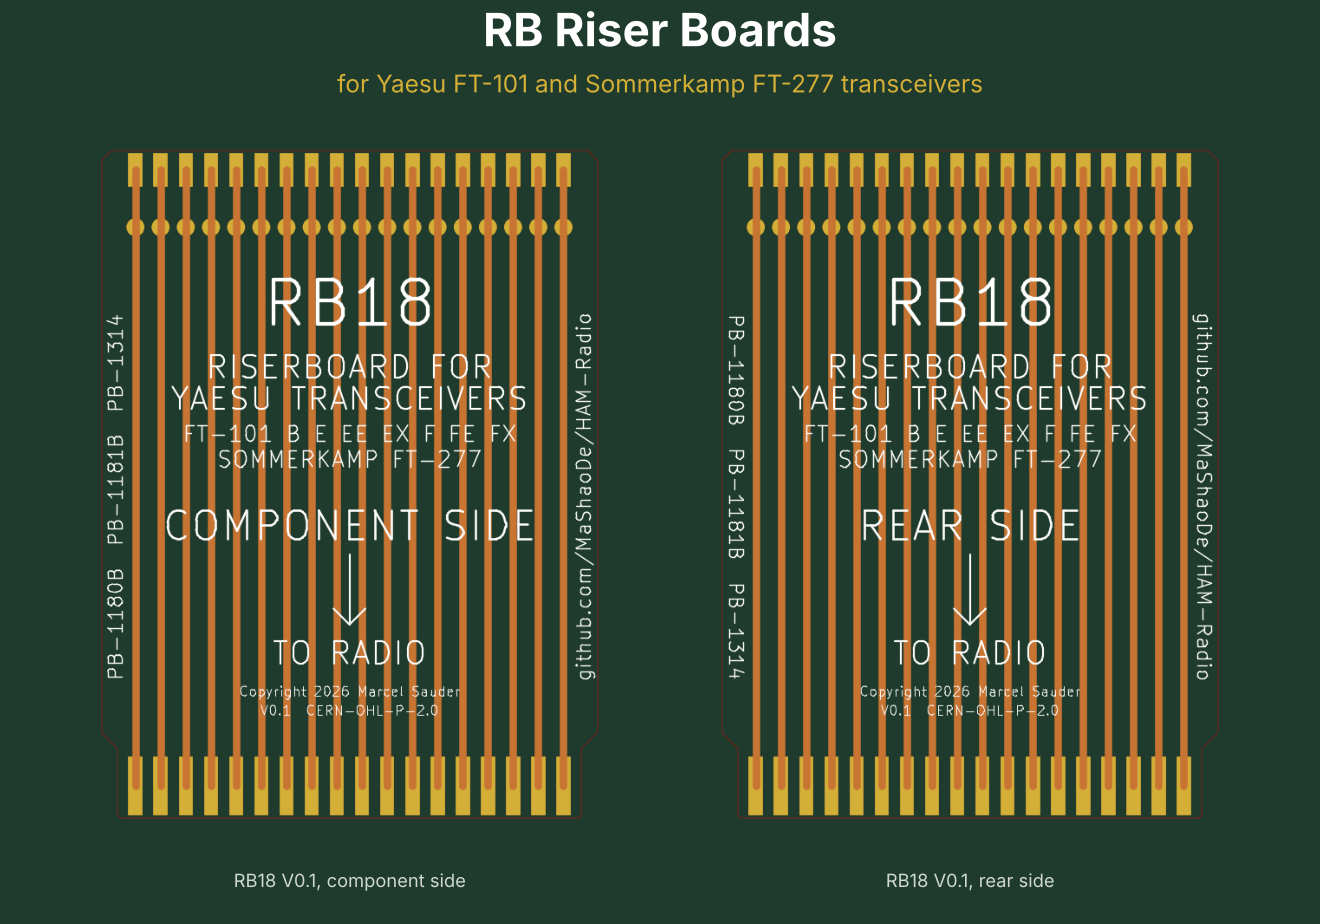
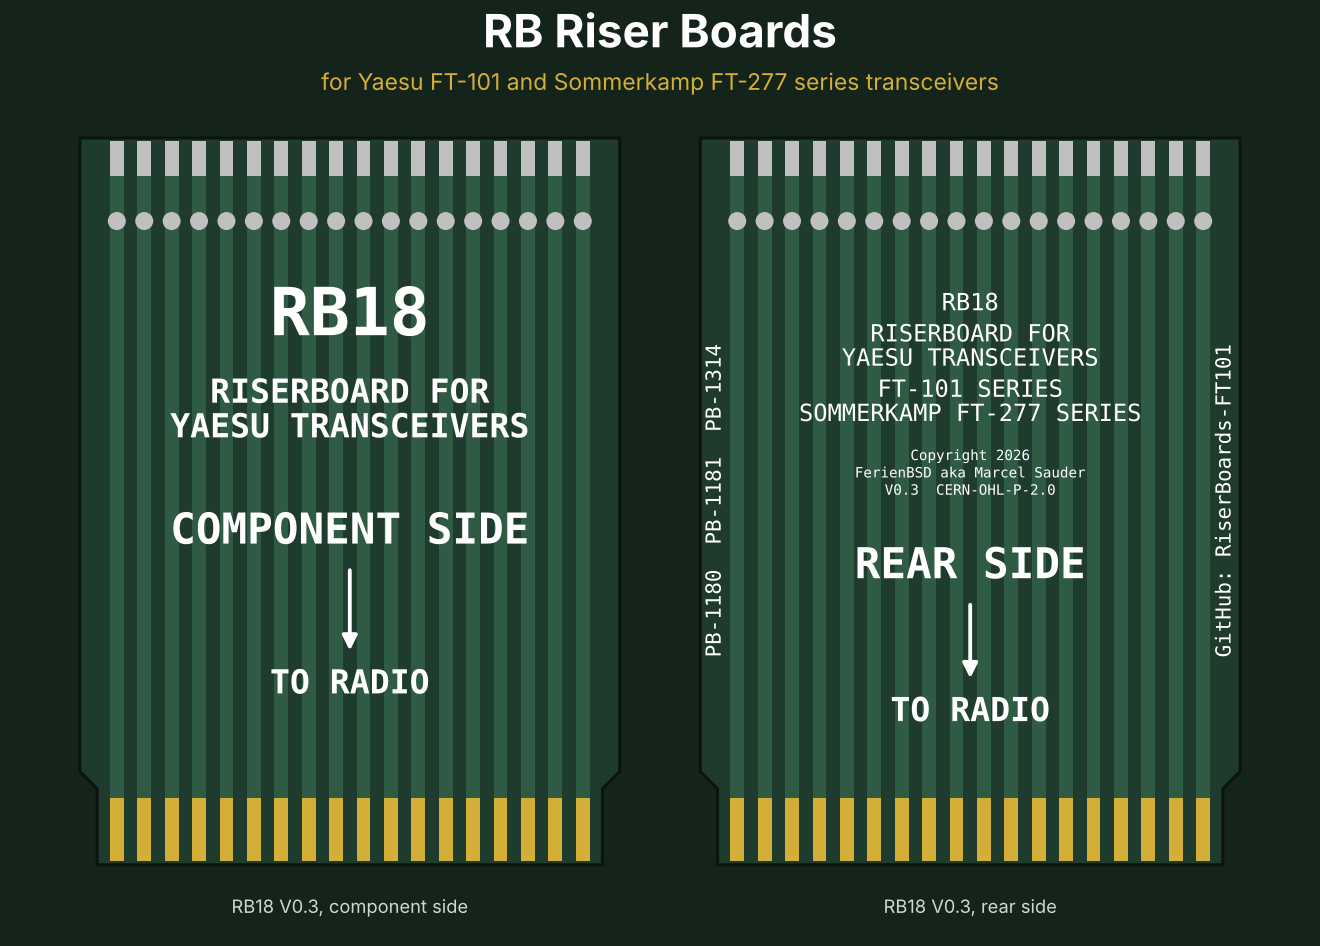
README title image: RB18 V0.3, both sides

diff --git a/docs/images/README.md b/docs/images/README.md
@@ -8,6 +8,6 @@ Photos for [assembly.md](../assembly.md). Licensed CC-BY-4.0. JPEG, about 1600 p
 | `02-connector-fitted.jpg` | Connector pushed onto the edge, side view, pins on the pads |
 | `03-soldered.jpg` | Finished solder joints |
 | `04-in-use.jpg` | Riser with a card in an FT-101 or FT-277 |
-| `title.png` | Title image of the README (rendered from the RB18 Gerber files) |
+| `title.png` | Title image of the README (RB18 V0.3, both sides, drawn by the generator) |
 
 Until the photos are added, the links in assembly.md show as missing images.
